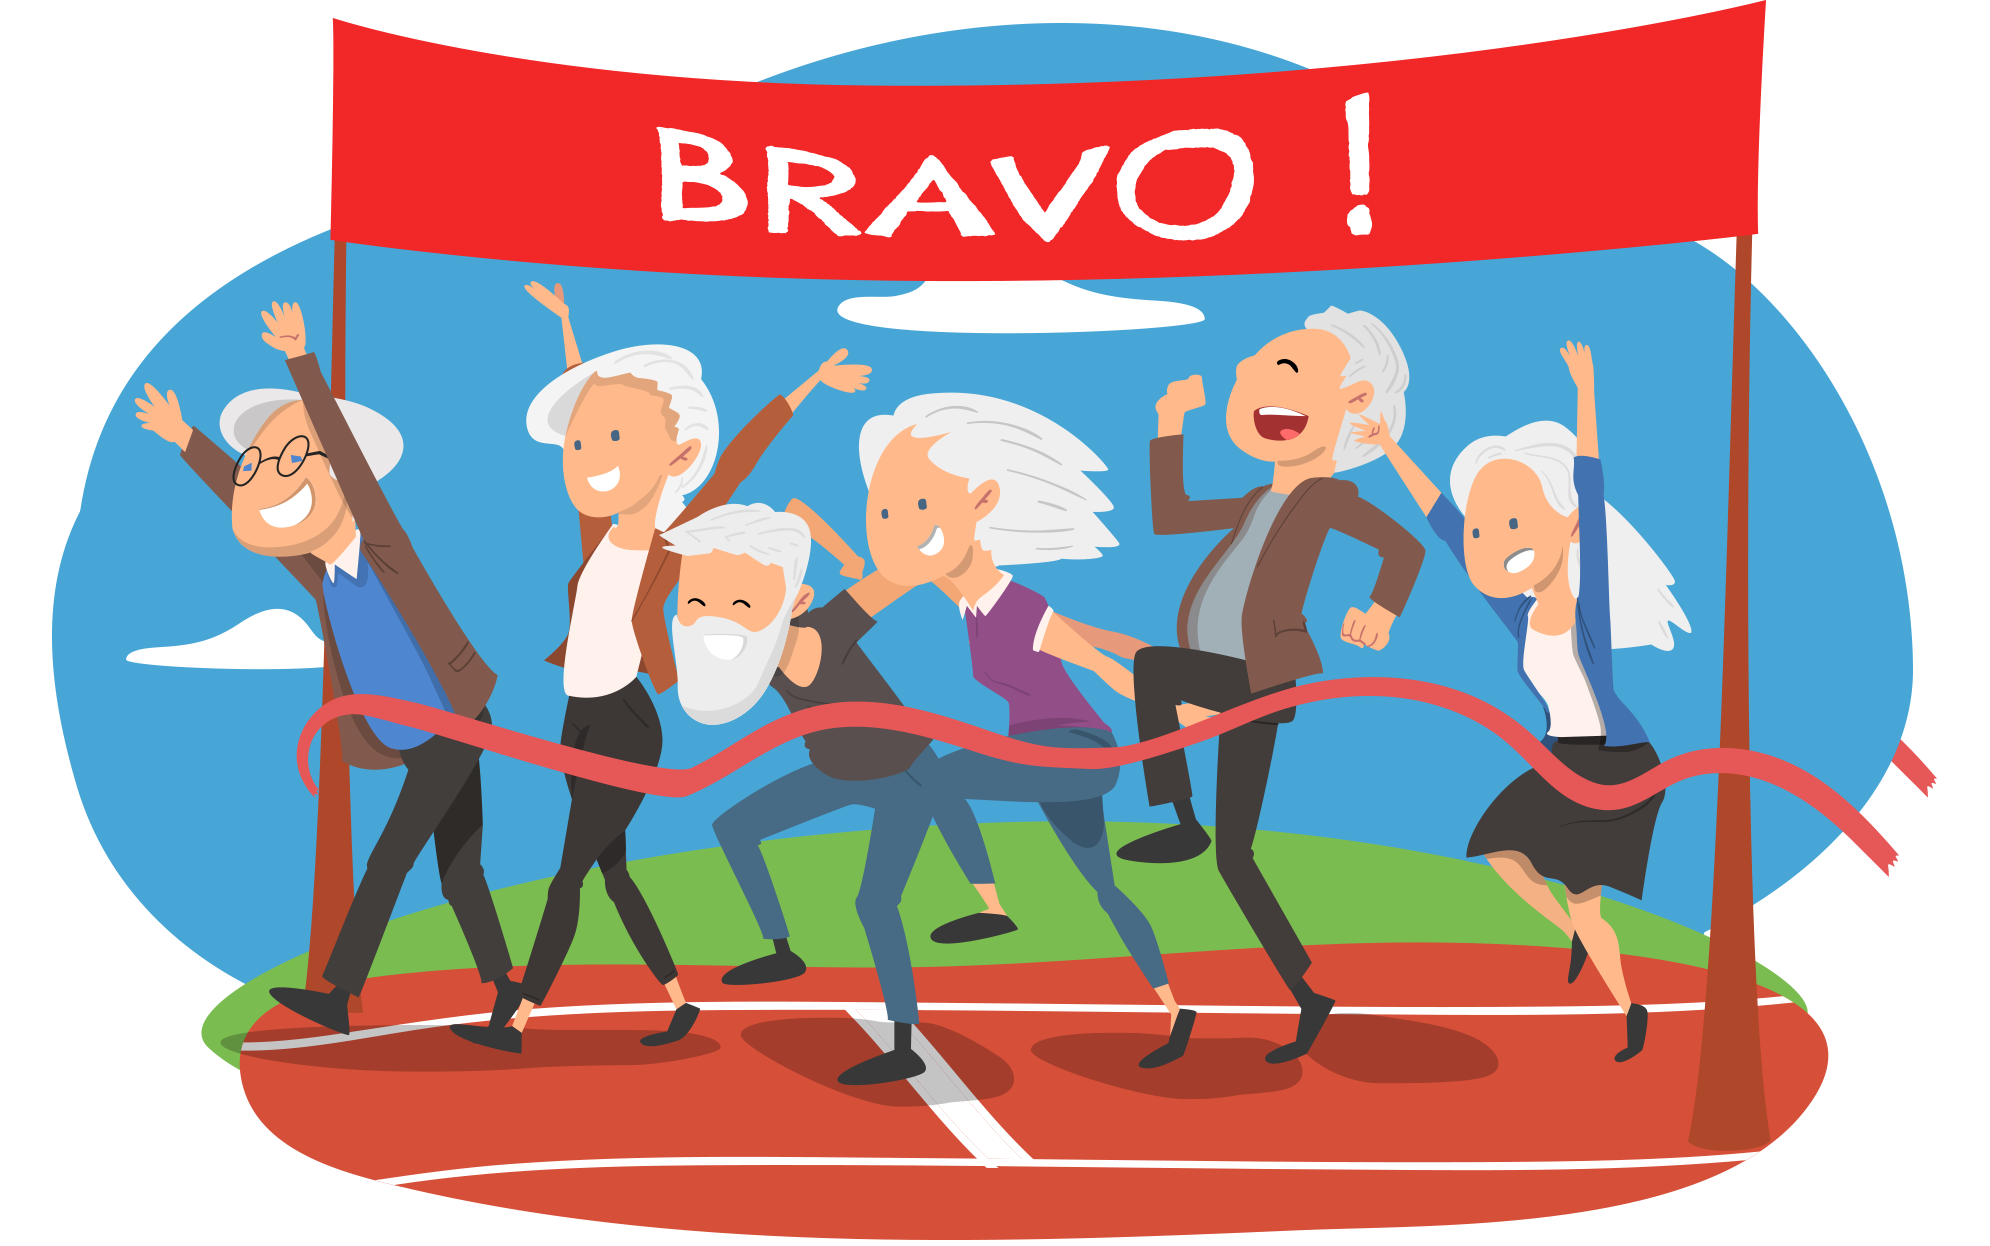
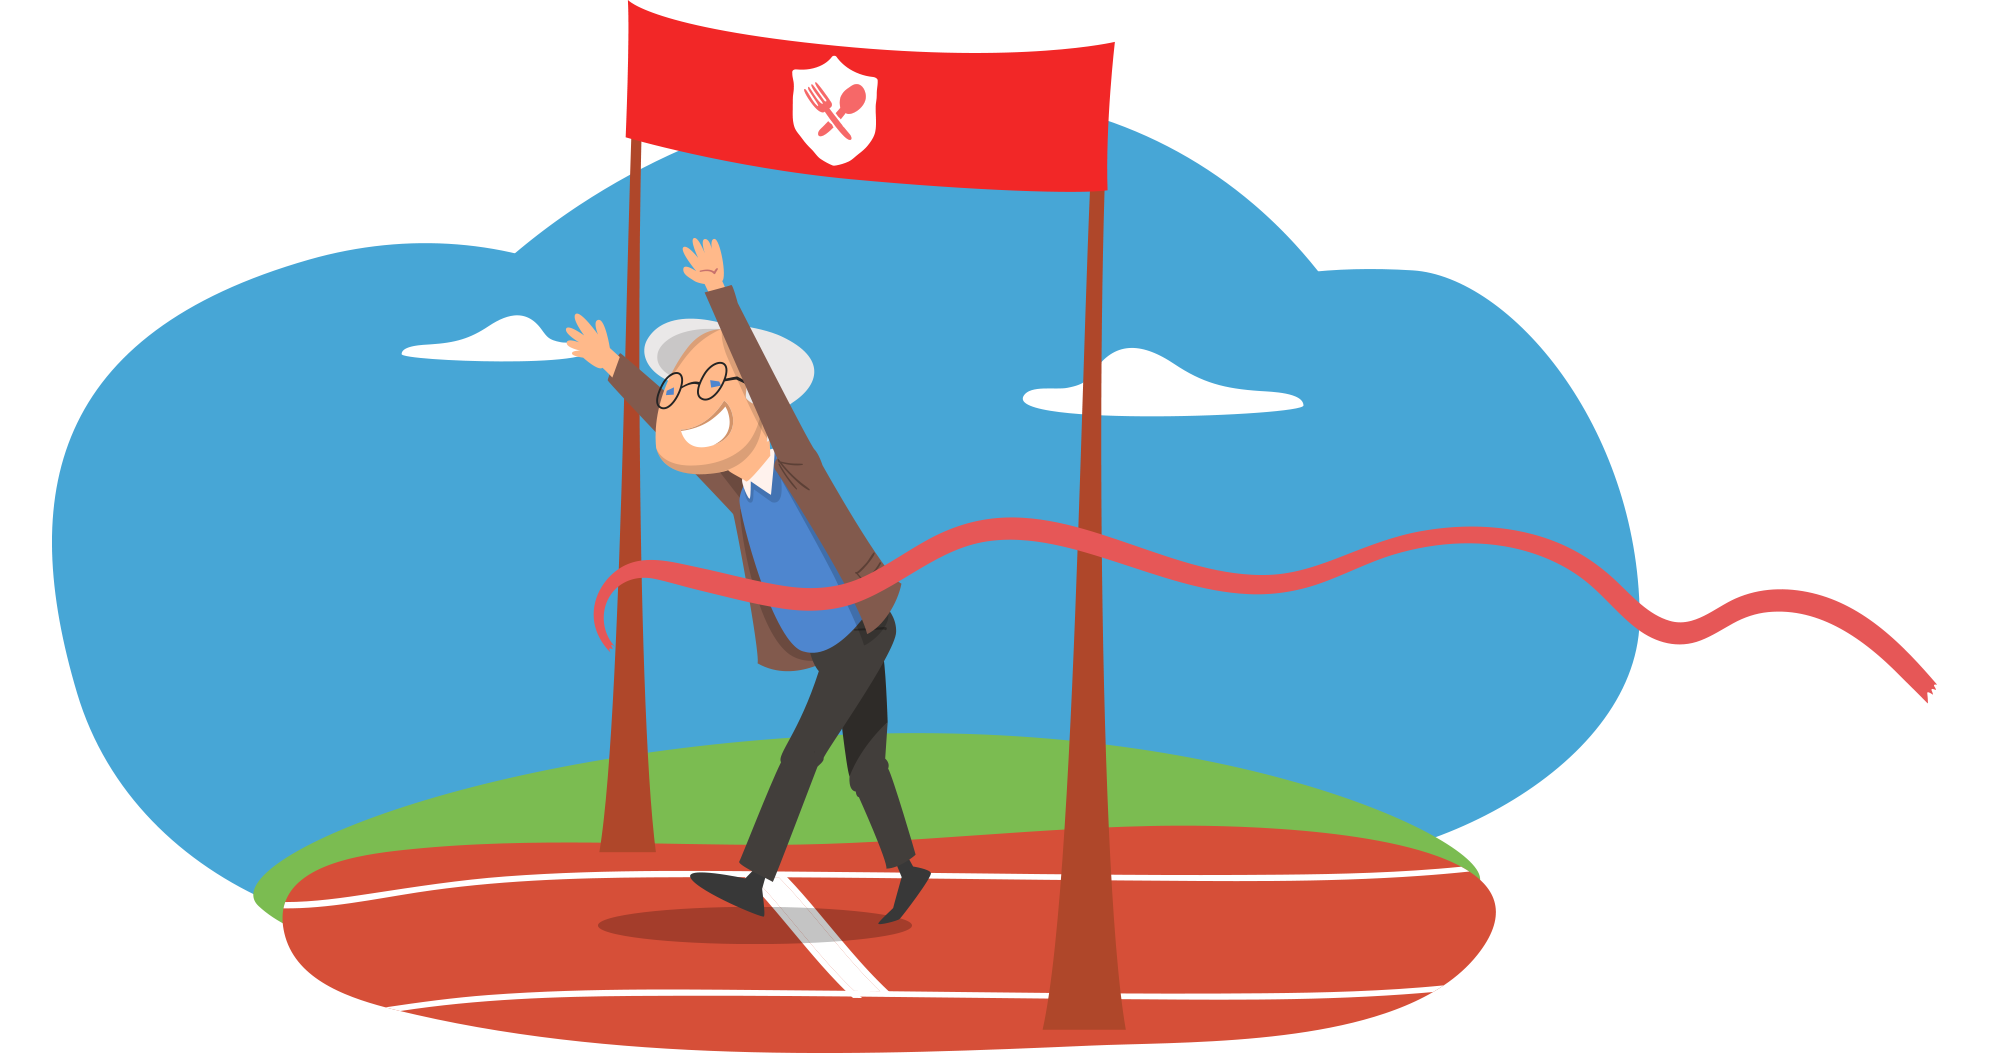
second correction from customer

diff --git a/src/modules/module-6/chapter-4/page-3.tsx b/src/modules/module-6/chapter-4/page-3.tsx
@@ -1,22 +1,12 @@
 import React from "react";
 
-import PageContainer from "../../page";
-import {Paragraph, Img} from "../../page-components";
+import PageConclusion from "../../page-templates/conclusion";
 import img from "./page-3.png";
 
 export default () => {
   return (
-    <PageContainer>
-      <Paragraph padder>
-        <Img src={img} mode="fullscreen" />
-      </Paragraph>
-      <Paragraph>Merci de votre participation active et bravo pour votre assiduité.</Paragraph>
-      <Paragraph>
-        Vous avez terminé l’ensemble des modules liés à la formation distancielle.
-      </Paragraph>
-      <Paragraph>
-        Si vous avez des questions, n’hésitez pas à vous référer au FAQ (mettre le lien).
-      </Paragraph>
-    </PageContainer>
+    <PageConclusion img={img}>
+      Vous avez terminé le module 6 !<br />
+    </PageConclusion>
   );
 };

diff --git a/src/modules/module-6/chapter-4/page-4.tsx b/src/modules/module-6/chapter-4/page-4.tsx
@@ -8,7 +8,14 @@ export default () => {
   return (
     <PageContainer>
       <Paragraph padder>
-        <Img src={img} mode="fullscreen" />
+        <Img src={img} mode="avatar-lg" />
+      </Paragraph>
+      <Paragraph>Merci de votre participation active et bravo pour votre assiduité.</Paragraph>
+      <Paragraph>
+        Vous avez terminé l’ensemble des modules liés à la formation distancielle.
+      </Paragraph>
+      <Paragraph>
+        Si vous avez des questions, n’hésitez pas à vous référer au FAQ (mettre le lien).
       </Paragraph>
     </PageContainer>
   );

diff --git a/src/auth/login.tsx b/src/auth/login.tsx
@@ -62,7 +62,8 @@ const Login: FC = () => {
       <Animation name="ANIMHOME" composition="734EB31CE8A9084FB0FF77AFEBD5E96A" fullscreen>
         <div className={cs.container}>
           <div className={cs.label}>
-            Saisissez votre e-mail. Il vous servira d'identifiant tout au long du parcours.
+            Saisissez votre e-mail. Il vous servira <br />
+            d'identifiant tout au long du parcours.
           </div>
           <div className={cs.forms}>
             <form className={cs.form} onSubmit={checkEmailAvailability}>

diff --git a/src/auth/login.module.scss b/src/auth/login.module.scss
@@ -5,7 +5,7 @@
   grid-column: 1;
   grid-row: 1;
   justify-self: center;
-  margin-top: 8%;
+  margin: 2rem 0 0 10rem;
   z-index: 1;
 
   @include media(md) {
@@ -22,9 +22,9 @@
 }
 
 .label {
-  @include font("Poppins", 600);
-  color: $white;
-  font-size: 1rem;
+  @include font("Chelsea Market", 400);
+  color: $gray44;
+  font-size: 1.6rem;
   margin-bottom: 0.5rem;
 }
 

diff --git a/src/modules/module-6/chapter-4/page-5.tsx b/src/modules/module-6/chapter-4/page-5.tsx
@@ -1,0 +1,15 @@
+import React from "react";
+
+import PageContainer from "../../page";
+import {Paragraph, Img} from "../../page-components";
+import img from "./page-5.png";
+
+export default () => {
+  return (
+    <PageContainer>
+      <Paragraph padder>
+        <Img src={img} mode="fullscreen" />
+      </Paragraph>
+    </PageContainer>
+  );
+};

diff --git a/src/modules/page-templates/conclusion.module.scss b/src/modules/page-templates/conclusion.module.scss
@@ -1,5 +1,5 @@
 @import "../../theme";
 
 .img {
-  max-width: 25rem !important;
+  max-width: 35rem !important;
 }
